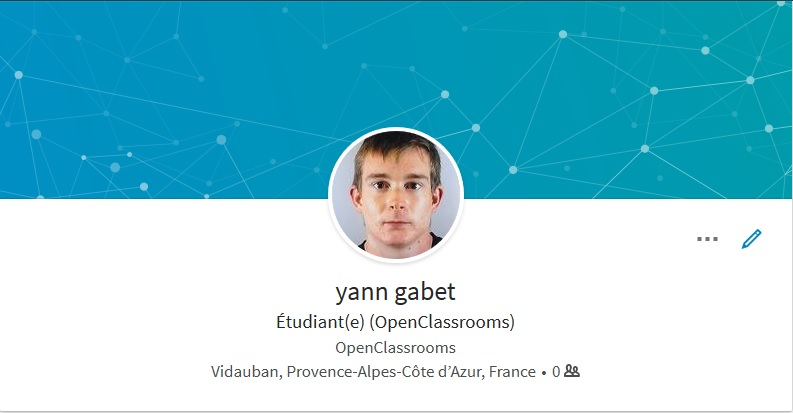
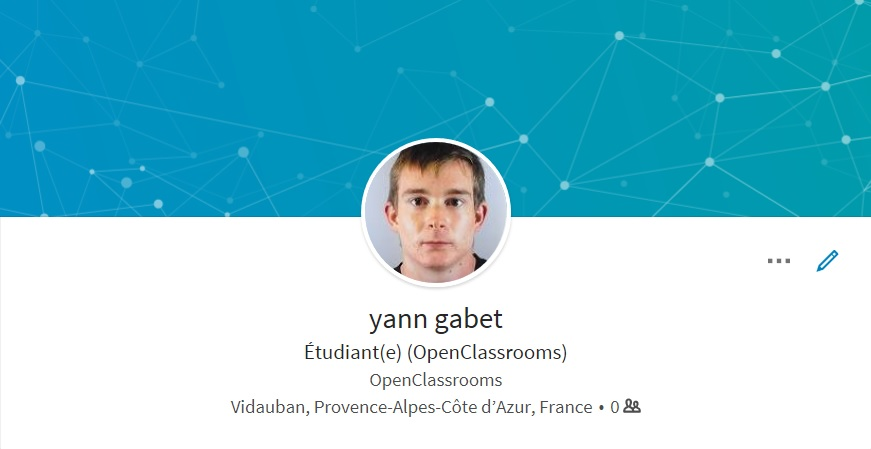
modif: tailles des images du dossier yann83 et mise en page yann83.md

diff --git a/content/students/yann83.md b/content/students/yann83.md
@@ -1,94 +1,51 @@
----
-
+---
 
 # FILENAME : please use your OpenClassrooms's name, available in your url.
-
 # Example: https://openclassrooms.com/membres/celinemartinet
-
 # must be the name of your file. If file name is celinemartinet.md, title is celinemartinet.
-
 # lowercase, no blank space, Capital case or special character.
-
 title: yann83
 
-
 # First name or full name
-
 name: yann
-
-date: 2017-09-26 14:57
-
+date: 2017-09-26 22:12
 
 # One line.
-
 # If you need more space, go to the next line and add 4 spaces on the left, as in 'description'.
-
 objective: Devenir Développeur Android
-
-short_description: Du rhum des femmes et d'la bière nom de dieu -Soldat Louis 1988
+short_description:  Du rhum des femmes et d'la bière nom de dieu -Soldat Louis 1988
 
 # don't touch that
-
 template: students
-
 description:
-
-    Après  avoir essayé le dev pour un projet personnel, j'ai décidé d'en faire mon métier!
-    
-
+    Après avoir essayé le dev pour un projet personnel, j'ai décidé d'en faire mon métier!
 
 # image must be located in content/images/students
-
 # name should be the same as this file. Eg: celinemartinet.png
-
 image: yann83.jpg
 
-
 # Change this to True when you do you pull request.
-
-public: true
-
+public: True
 
 # You need to keep the exact same structure for each new project.
-
 projects:
-
   - title: Présentez-vous !
-
     description: Une présentation de moi-même et un lien vers mon LinkedIn.
-
     # Create a new repository for your images. Name it the same as your nickname and profile picture.
-
     # Image must be here: content/students/yourrepo/project1.png
-
     image: yann83/projet_1.jpg
-
     link: https://www.linkedin.com/in/yann-gabet-284177150
-    
     # 'true' makes it fully available.
-
     # 'false' will add a black layer on the picture. IT WILL BE PUBLIC!
-
     finished: true
-
   - title: Intégrez la communauté !
-
     description: Modifier un projet Open Source pour comprendre le fonctionnement de Git, de Github et des pull requests. 
-
     image: yann83/projet_2.jpg
-    
     link: https://github.com/Thralis/alumnis.git
-
     finished: true
-
   - title: Aidez MacGyver à sortir !
-
     description: Création d’un jeu développé en Python et utilisant PyGame.
-
     image: ratus/projet_3.png
-
     link: https://www.github.com
-
     finished: false
-
 ---
